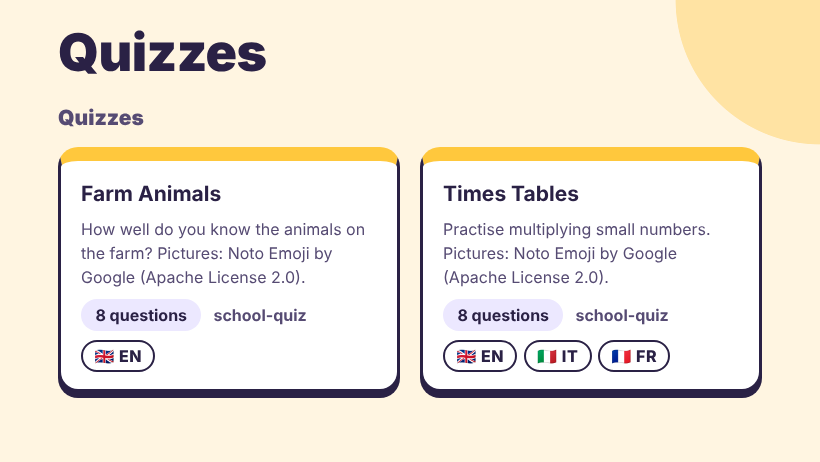
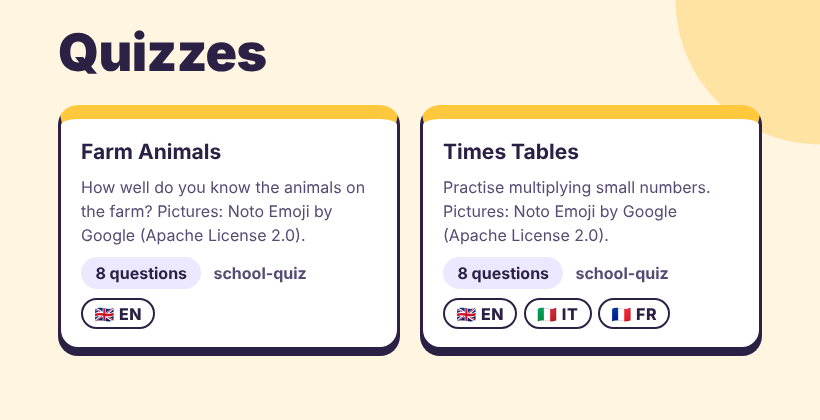
Phase 5 (WIP): code of conduct, SECURITY, PR/issue templates, docs for Pages and Claude review, single-section index headings
Claude-Session: https://claude.ai/code/session_015UJSALycaHgZxBARcTmSe2

Changed region(s): [[0.061, 0.1857, 1.0, 0.8667], [0.061, 0.0619, 0.3354, 0.1857], [0.8232, 0.1238, 0.8537, 0.1857]]

diff --git a/src/quizgen/templates/index.html b/src/quizgen/templates/index.html
@@ -17,13 +17,16 @@
 {% if author %}<p class="meta">{% if author.href %}<a href="{{ author.href }}" rel="noopener noreferrer"{% if author.external %} target="_blank"{% endif %}>{{ author.text }}</a>{% else %}{{ author.text }}{% endif %}</p>{% endif %}
 </header>
 <main class="index-main">
+{# Section headings only when both sections exist; otherwise cards are the h2s, so levels never skip or repeat the h1. #}
+{% set both = collections and quizzes %}
+{% set lvl = 3 if both else 2 %}
 {% if collections %}
-<section aria-labelledby="collections-h">
-<h2 id="collections-h" class="section-title">{{ collections_heading }}</h2>
+<section{% if both %} aria-labelledby="collections-h"{% endif %}>
+{% if both %}<h2 id="collections-h" class="section-title">{{ collections_heading }}</h2>{% endif %}
 <ul class="cards">
 {% for c in collections %}
 <li class="card card--collection">
-<h3 class="card-title"><a class="card-link" href="{{ c.href }}"><span class="folder" aria-hidden="true">&#128193;</span> {{ c.title }}</a></h3>
+<h{{ lvl }} class="card-title"><a class="card-link" href="{{ c.href }}"><span class="folder" aria-hidden="true">&#128193;</span> {{ c.title }}</a></h{{ lvl }}>
 {% if c.description %}<p class="card-desc">{{ c.description }}</p>{% endif %}
 <p class="card-meta"><span class="chip">{{ c.count_text }}</span>{% if c.author_name %} <span class="by">{{ c.author_name }}</span>{% endif %}</p>
 </li>
@@ -32,12 +35,12 @@
 </section>
 {% endif %}
 {% if quizzes %}
-<section aria-labelledby="quizzes-h">
-<h2 id="quizzes-h" class="section-title">{{ quizzes_heading }}</h2>
+<section{% if both %} aria-labelledby="quizzes-h"{% endif %}>
+{% if both %}<h2 id="quizzes-h" class="section-title">{{ quizzes_heading }}</h2>{% endif %}
 <ul class="cards">
 {% for q in quizzes %}
 <li class="card card--quiz">
-<h3 class="card-title" lang="{{ q.lang }}"><a class="card-link" href="{{ q.href }}">{{ q.title }}</a></h3>
+<h{{ lvl }} class="card-title" lang="{{ q.lang }}"><a class="card-link" href="{{ q.href }}">{{ q.title }}</a></h{{ lvl }}>
 {% if q.description %}<p class="card-desc" lang="{{ q.lang }}">{{ q.description }}</p>{% endif %}
 <p class="card-meta"><span class="chip">{{ q.count_text }}</span>{% if q.author_name %} <span class="by">{{ q.author_name }}</span>{% endif %}</p>
 {% if q.languages %}<ul class="langs" aria-label="{{ languages_label }}">

diff --git a/tests/test_build_site.py b/tests/test_build_site.py
@@ -480,3 +480,42 @@ def test_structure_hint_in_site_mode(tmp_path, capsys):
     put(tmp_path / "in" / "bad.json", {"title": "T", "questions": [{"text": "Q", "options": []}]})
     assert main(["build", str(tmp_path / "in"), "-o", str(tmp_path / "out")]) == 1
     assert "Fix these first" in capsys.readouterr().out
+
+
+def heading_levels(page: Path) -> list[str]:
+    return re.findall(r"<h([1-6])[ >]", read(page))
+
+
+def test_index_headings_with_collections_and_quizzes(tree, tmp_path):
+    out = tmp_path / "out"
+    build_site(tree, out)
+    assert heading_levels(out / "index.html") == ["1", "2", "3", "3", "2", "3"]
+
+
+def test_index_headings_quizzes_only_have_no_repeated_section_title(tmp_path):
+    src = tmp_path / "in"
+    put(src / "a.json", quiz("A"))
+    put(src / "b.json", quiz("B"))
+    out = tmp_path / "out"
+    build_site(src, out)
+    page = read(out / "index.html")
+    assert heading_levels(out / "index.html") == ["1", "2", "2"]
+    assert "section-title" not in page and "aria-labelledby" not in page
+    assert page.count("Quizzes</h") == 1
+
+
+def test_index_headings_collections_only_and_collection_page(tmp_path):
+    src = tmp_path / "in"
+    put(src / "school" / "maths.json", quiz("Maths"))
+    out = tmp_path / "out"
+    build_site(src, out)
+    assert heading_levels(out / "index.html") == ["1", "2"]
+    assert heading_levels(out / "school" / "index.html") == ["1", "2"]
+
+
+def test_index_headings_empty(tmp_path):
+    src = tmp_path / "in"
+    src.mkdir()
+    out = tmp_path / "out"
+    build_site(src, out)
+    assert heading_levels(out / "index.html") == ["1"]

diff --git a/README.md b/README.md
@@ -10,9 +10,9 @@
 |---|---|
 | ![Times Tables in Italian with the EN, IT and FR language switcher](docs/screenshots/languages.png) | ![Quiz index with a card for each quiz](docs/screenshots/index.png) |
 
-Live demo: coming soon.
+**Live demo:** <https://rcocetta.github.io/school-quiz/> (try the [quizzes](https://rcocetta.github.io/school-quiz/quizzes/) or read the [guide](https://rcocetta.github.io/school-quiz/guide/)).
 
-**Which path are you?** Teacher or parent: read [Quick start](#quick-start) and [Writing a quiz](#writing-a-quiz), then [Publishing](#publishing-on-github-pages). Developer: jump to [Development](#development) and [CONTRIBUTING.md](CONTRIBUTING.md).
+**Which path are you?** Teacher or parent who does not want to install anything: follow the [step-by-step guide](https://rcocetta.github.io/school-quiz/guide/) (fork the repository, edit your quiz in the browser on GitHub, and your site publishes itself). Comfortable with a terminal: read [Quick start](#quick-start) and [Writing a quiz](#writing-a-quiz), then [Publishing](#publishing-on-github-pages). Developer: jump to [Development](#development) and [CONTRIBUTING.md](CONTRIBUTING.md).
 
 ## Our promise
 
@@ -98,7 +98,7 @@ quizgen build my-quiz.json
 
 **5. Open `my-quiz.html`** in a browser (double-click it). Done. It is a single file you can email or put on a USB stick.
 
-Prefer not to install anything? A fork-and-edit path for teachers (edit in the browser on GitHub, no install) is coming with the project website. See [Publishing on GitHub Pages](#publishing-on-github-pages).
+Prefer not to install anything? Follow the [guide](https://rcocetta.github.io/school-quiz/guide/): fork this repository, edit your quiz in the browser on GitHub, and the site publishes itself. See also [Publishing on GitHub Pages](#publishing-on-github-pages).
 
 ## Installation
 
@@ -719,7 +719,13 @@ Generated pages load no fonts, scripts or analytics from other sites, and make n
 
 ## Publishing on GitHub Pages
 
-The generated site is plain static files, so any static host works. A fork-and-edit path for non-programmers (edit JSON in GitHub's web editor and let a workflow publish it) is coming with the project website; this section covers what works today.
+The generated site is plain static files, so any static host works.
+
+### Easiest: fork this repository (no install)
+
+If you only want your own quiz site, follow the [guide](https://rcocetta.github.io/school-quiz/guide/). In short: fork the repository, edit or add quiz files in `quizzes/` using GitHub's web editor, and in **Settings > Pages** set **Source** to **GitHub Actions**. The repository's own [`.github/workflows/pages.yml`](.github/workflows/pages.yml) then validates and builds `quizzes/` and publishes the result on every push to `main`. By default it also publishes the project website (landing page and guide) next to your quizzes. To publish only your quizzes, at the root of your site, set the repository variable `PROJECT_PAGES` to `false` (**Settings > Secrets and variables > Actions > Variables**).
+
+The rest of this section is for your own repository that is not a fork of this one.
 
 ### Manual: build and publish the folder
 
@@ -736,7 +742,7 @@ To test locally before publishing: `python3 -m http.server --bind 127.0.0.1 -d d
 
 ### Automatic: a GitHub Actions workflow in your own repository
 
-Put your quizzes in a `quizzes/` folder in a GitHub repository, then save the file below as `.github/workflows/pages.yml`. In **Settings > Pages**, set **Source** to **GitHub Actions**. Every push to `main` then validates, builds and deploys your site.
+Put your quizzes in a `quizzes/` folder in your own GitHub repository, then save the file below as `.github/workflows/pages.yml`. In **Settings > Pages**, set **Source** to **GitHub Actions**. Every push to `main` then validates, builds and deploys your site.
 
 ```yaml
 name: Deploy quizzes to GitHub Pages
@@ -864,13 +870,14 @@ python3 -m venv .venv && .venv/bin/pip install -e '.[dev]'
 .venv/bin/pytest -q
 ```
 
-Optional browser smoke tests (`tests/browser/`, Playwright and Chromium, installed with `pip install -e '.[dev,browser]'`) and `scripts/screenshots.py` (regenerates `docs/screenshots/`) are covered there too. CI is `.github/workflows/ci.yml`.
+Optional browser smoke tests (`tests/browser/`, Playwright and Chromium, installed with `pip install -e '.[dev,browser]'`) and `scripts/screenshots.py` (regenerates `docs/screenshots/`) are covered there too. CI is `.github/workflows/ci.yml`; the site is deployed by `.github/workflows/pages.yml`.
 
 ### Project layout
 
 ```text
 pyproject.toml            package metadata, dependencies, entry point
 README.md  CONTRIBUTING.md  CHANGELOG.md  LICENSE
+CODE_OF_CONDUCT.md  SECURITY.md   community files (Contributor Covenant 2.1, how to report problems privately)
 PLAN.md  CLAUDE.md        project plan/decisions and instructions for AI agents
 src/quizgen/
   cli.py                  argparse; dispatches to validate/build
@@ -884,10 +891,13 @@ src/quizgen/
   templates/              quiz.html, index.html (Jinja2)
   static/                 quiz.js, quiz.css (vanilla, no dependencies)
 examples/                 example quizzes and images
+quizzes/                  the shared quiz library (published on the project site)
+website/                  project landing page and guide (static HTML)
 tests/                    pytest suite, fixtures/ with one bad file per rule, browser/ smoke tests
 scripts/                  maintenance scripts (screenshots)
 docs/screenshots/         pictures used in this README
-.github/workflows/        CI
+.github/workflows/        ci.yml (tests), pages.yml (deploy site), claude-review.yml (maintainer-triggered review)
+.github/                  PULL_REQUEST_TEMPLATE.md, ISSUE_TEMPLATE/ (issue forms), dependabot.yml
 .claude/agents/           helper agents used while developing the project
 ```
 
@@ -917,7 +927,7 @@ The built-in text lives in [`src/quizgen/ui_strings.json`](src/quizgen/ui_string
 
 ## Contributing, licence and credits
 
-Contributions of code, quizzes and collections are welcome. Read [CONTRIBUTING.md](CONTRIBUTING.md) first. See [CHANGELOG.md](CHANGELOG.md) for what changed.
+Contributions of code, quizzes and collections are welcome. Read [CONTRIBUTING.md](CONTRIBUTING.md) first. Everyone taking part agrees to the [Code of Conduct](CODE_OF_CONDUCT.md); to report a security problem privately, see [SECURITY.md](SECURITY.md). See [CHANGELOG.md](CHANGELOG.md) for what changed.
 
 **Licence:** GPL-3.0-or-later. See [LICENSE](LICENSE). In plain words: you may use, copy, change and share this software, including for schools; if you share a modified version, you must share its source under the same licence.
 

diff --git a/CODE_OF_CONDUCT.md b/CODE_OF_CONDUCT.md
@@ -1,0 +1,83 @@
+# Contributor Covenant Code of Conduct
+
+## Our Pledge
+
+We as members, contributors, and leaders pledge to make participation in our community a harassment-free experience for everyone, regardless of age, body size, visible or invisible disability, ethnicity, sex characteristics, gender identity and expression, level of experience, education, socio-economic status, nationality, personal appearance, race, caste, color, religion, or sexual identity and orientation.
+
+We pledge to act and interact in ways that contribute to an open, welcoming, diverse, inclusive, and healthy community.
+
+## Our Standards
+
+Examples of behavior that contributes to a positive environment for our community include:
+
+* Demonstrating empathy and kindness toward other people
+* Being respectful of differing opinions, viewpoints, and experiences
+* Giving and gracefully accepting constructive feedback
+* Accepting responsibility and apologizing to those affected by our mistakes, and learning from the experience
+* Focusing on what is best not just for us as individuals, but for the overall community
+
+Examples of unacceptable behavior include:
+
+* The use of sexualized language or imagery, and sexual attention or advances of any kind
+* Trolling, insulting or derogatory comments, and personal or political attacks
+* Public or private harassment
+* Publishing others' private information, such as a physical or email address, without their explicit permission
+* Other conduct which could reasonably be considered inappropriate in a professional setting
+
+## Enforcement Responsibilities
+
+Community leaders are responsible for clarifying and enforcing our standards of acceptable behavior and will take appropriate and fair corrective action in response to any behavior that they deem inappropriate, threatening, offensive, or harmful.
+
+Community leaders have the right and responsibility to remove, edit, or reject comments, commits, code, wiki edits, issues, and other contributions that are not aligned to this Code of Conduct, and will communicate reasons for moderation decisions when appropriate.
+
+## Scope
+
+This Code of Conduct applies within all community spaces, and also applies when an individual is officially representing the community in public spaces. Examples of representing our community include using an official e-mail address, posting via an official social media account, or acting as an appointed representative at an online or offline event.
+
+## Enforcement
+
+Instances of abusive, harassing, or otherwise unacceptable behavior may be reported to the community leaders responsible for enforcement by contacting the maintainer privately through GitHub: open the maintainer's profile at <https://github.com/rcocetta> and use the contact options there, or, for anything that is also a security problem, use the **Report a vulnerability** button on this repository's **Security** tab. Please do not post conduct reports in public issues or pull requests. All complaints will be reviewed and investigated promptly and fairly.
+
+All community leaders are obligated to respect the privacy and security of the reporter of any incident.
+
+## Enforcement Guidelines
+
+Community leaders will follow these Community Impact Guidelines in determining the consequences for any action they deem in violation of this Code of Conduct:
+
+### 1. Correction
+
+**Community Impact**: Use of inappropriate language or other behavior deemed unprofessional or unwelcome in the community.
+
+**Consequence**: A private, written warning from community leaders, providing clarity around the nature of the violation and an explanation of why the behavior was inappropriate. A public apology may be requested.
+
+### 2. Warning
+
+**Community Impact**: A violation through a single incident or series of actions.
+
+**Consequence**: A warning with consequences for continued behavior. No interaction with the people involved, including unsolicited interaction with those enforcing the Code of Conduct, for a specified period of time. This includes avoiding interactions in community spaces as well as external channels like social media. Violating these terms may lead to a temporary or permanent ban.
+
+### 3. Temporary Ban
+
+**Community Impact**: A serious violation of community standards, including sustained inappropriate behavior.
+
+**Consequence**: A temporary ban from any sort of interaction or public communication with the community for a specified period of time. No public or private interaction with the people involved, including unsolicited interaction with those enforcing the Code of Conduct, is allowed during this period. Violating these terms may lead to a permanent ban.
+
+### 4. Permanent Ban
+
+**Community Impact**: Demonstrating a pattern of violation of community standards, including sustained inappropriate behavior, harassment of an individual, or aggression toward or disparagement of classes of individuals.
+
+**Consequence**: A permanent ban from any sort of public interaction within the community.
+
+## Attribution
+
+This Code of Conduct is adapted from the [Contributor Covenant][homepage], version 2.1, available at [https://www.contributor-covenant.org/version/2/1/code_of_conduct.html][v2.1].
+
+Community Impact Guidelines were inspired by [Mozilla's code of conduct enforcement ladder][Mozilla CoC].
+
+For answers to common questions about this code of conduct, see the FAQ at [https://www.contributor-covenant.org/faq][FAQ]. Translations are available at [https://www.contributor-covenant.org/translations][translations].
+
+[homepage]: https://www.contributor-covenant.org
+[v2.1]: https://www.contributor-covenant.org/version/2/1/code_of_conduct.html
+[Mozilla CoC]: https://github.com/mozilla/diversity
+[FAQ]: https://www.contributor-covenant.org/faq
+[translations]: https://www.contributor-covenant.org/translations

diff --git a/CONTRIBUTING.md b/CONTRIBUTING.md
@@ -6,6 +6,8 @@ Thank you for helping! school-quiz is built for kids, free forever, and open to 
 - **Quizzes**: add a quiz to the shared library in `quizzes/`.
 - **Collections**: add a whole set of quizzes, for example one teacher's or one school's, as a folder `quizzes/<collection>/` with its own index page.
 
+Everyone taking part follows our [Code of Conduct](CODE_OF_CONDUCT.md). To report a security problem, see [SECURITY.md](SECURITY.md).
+
 You do not need to be a programmer to contribute a quiz. If you are not comfortable with Git, open an issue and attach your quiz file; we can help turn it into a pull request.
 
 ## Development setup
@@ -41,7 +43,7 @@ Without Playwright these tests are skipped. With `QUIZGEN_BROWSER_TESTS=1` set, 
 
 **Screenshots** in `docs/screenshots/` are generated, not hand-made. Regenerate them with `.venv/bin/python scripts/screenshots.py` if you change how the pages look.
 
-**Checking quizzes:** `.venv/bin/quizgen validate examples/` (and `quizzes/` once that folder exists).
+**Checking quizzes:** `.venv/bin/quizgen validate examples/ quizzes/`.
 
 ## Continuous integration
 
@@ -78,9 +80,9 @@ Settled decisions in `PLAN.md` (marked with a tick) should not be reopened insid
 
 ## Contributing a quiz or collection
 
-Put the quiz in `quizzes/` (or, for a collection, in `quizzes/<collection>/`, optionally with a `collection.json`; see the [README](README.md#collections-and-folder-layout)). Images go in an `images/` folder next to the quiz.
+Put the quiz in `quizzes/`. For a collection, make a folder `quizzes/<collection>/` with your quizzes in it, optionally with a `collection.json` for its title, description and author; see the [README](README.md#collections-and-folder-layout)). Images go in an `images/` folder next to the quiz.
 
-Checklist (a pull request template that repeats it is coming soon):
+The [pull request template](.github/PULL_REQUEST_TEMPLATE.md) repeats this checklist. For each quiz or collection:
 
 - [ ] **Age-appropriate.** Content, wording and pictures suit primary and early-secondary school children.
 - [ ] **Answers double-checked.** Each question has exactly one right answer, and you checked the facts in a reliable source. Add an `explanation` where it helps a child learn.
@@ -95,10 +97,19 @@ Checklist (a pull request template that repeats it is coming soon):
 1. Fork the repository and create a branch from `main` with a short descriptive name.
 2. Make your change, keep it focused, and add or update tests and docs.
 3. Run `.venv/bin/pytest -q` (and the browser tests if you touched the page).
-4. Open a pull request and say what it changes and why. For a quiz or collection, tick the checklist above.
+4. Open a pull request. The template asks whether it is code, a quiz or a collection, what it changes and why, and has a checklist to tick.
 5. CI runs automatically. The maintainer reviews, may ask for changes, and merges when it is ready.
 
-The maintainer may also run an automated Claude review on a pull request (coming soon). It is started manually by the maintainer, never automatically, and its output is advice that a human reads; it does not replace human review. Pull requests from forks never get access to repository secrets.
+Pull requests from forks never get access to repository secrets.
+
+### Maintainer-triggered Claude review
+
+The maintainer can ask for an automated review by [Claude](https://www.anthropic.com/claude) on a pull request. How it works ([`.github/workflows/claude-review.yml`](.github/workflows/claude-review.yml)):
+
+- **Only the repository owner can start it**, by commenting `/claude-review` on the pull request (or by running the workflow manually from the **Actions** tab). Comments from anyone else are ignored.
+- **It never runs automatically**, not when a pull request is opened or updated. Contributors do not need to do anything.
+- **Its output is advice** that a human reads. It does not replace human review and cannot merge or push.
+- It reads the content of the pull request, which anyone can write, so it could be tricked by text planted in a pull request (prompt injection). That is why it only has permission to read the repository and to comment, and no other secrets.
 
 ## Reporting problems
 

diff --git a/CHANGELOG.md b/CHANGELOG.md
@@ -23,4 +23,12 @@ Everything below will be released as 0.1.0, the first version.
 - Safe by default: no external requests, strict Content-Security-Policy on every page, quiz text inserted with `textContent`, safe JSON embedding, nothing written when validation fails, output kept out of the input folder, no overwriting the input.
 - Example quizzes (single-language and multi-language) with pictures from Noto Emoji (Apache-2.0).
 - Documentation: README with a full field reference, validation guide, CLI reference, publishing guide (including a copy-paste GitHub Actions workflow) and FAQ; CONTRIBUTING; this changelog.
+- Project website at <https://rcocetta.github.io/school-quiz/>: landing page, step-by-step guide for teachers (fork, edit in the browser, publish), and the shared quiz library in `quizzes/`.
+- `.github/workflows/pages.yml` builds `quizzes/` and the website and deploys them to GitHub Pages; forks can set the repository variable `PROJECT_PAGES=false` to publish only their quizzes at the root of their site.
+- `.github/workflows/claude-review.yml`: Claude review of a pull request, started only by the repository owner (comment `/claude-review`) with read and comment permissions only.
+- Community files: Code of Conduct (Contributor Covenant 2.1), security policy (private vulnerability reporting), pull request template with quiz and collection checklist, issue forms for bugs, feature requests and quiz ideas.
 - Contributor tooling: browser smoke tests with Playwright (optional `browser` extra), a script that regenerates the README screenshots, and a CI workflow that runs the tests and validates the examples and quizzes.
+
+### Fixed
+
+- Index pages no longer repeat the page title as a section heading when they have only one kind of card (only quizzes, or only collections); cards are then second-level headings, so screen readers hear each heading once and levels never skip.

diff --git a/SECURITY.md b/SECURITY.md
@@ -1,0 +1,19 @@
+# Security policy
+
+## Reporting a problem
+
+Please report security problems **privately**. Do not open a public issue or pull request.
+
+On the repository's [Security tab](https://github.com/rcocetta/school-quiz/security), choose **Report a vulnerability** (GitHub private vulnerability reporting). Say what you found, how to reproduce it (a small quiz file helps), and what you think the impact is. We will reply as soon as we can, and credit you in the fix if you like.
+
+## What is in scope
+
+- The pages `quizgen` generates: for example script injection through quiz text, a weakened Content-Security-Policy, or a page that makes requests to other sites.
+- The `quizgen` command: for example reading or writing files outside the chosen folders, or unsafe handling of images and links.
+- The GitHub Actions workflows in `.github/workflows/`: for example leaked secrets or permissions that are too broad.
+
+Not in scope: the content of third-party image hosts that a quiz author links to, and problems in forks or other people's quiz sites.
+
+## Supported versions
+
+Only the latest version on the `main` branch is supported. Fixes go there.

diff --git a/.github/PULL_REQUEST_TEMPLATE.md b/.github/PULL_REQUEST_TEMPLATE.md
@@ -1,0 +1,27 @@
+## What kind of change is this?
+
+- [ ] Code (tool, quiz page, docs, tests)
+- [ ] Quiz (added to `quizzes/`)
+- [ ] Collection (a new `quizzes/<collection>/` folder)
+
+## What and why
+
+<!-- Say what this changes and why. -->
+
+## Quiz or collection checklist
+
+<!-- Skip this section for code-only changes. -->
+
+- [ ] Age-appropriate content, wording and pictures.
+- [ ] Correct answers double-checked in a reliable source.
+- [ ] Images are mine or openly licensed. Source and licence: <!-- name them here -->
+- [ ] No personal data about children (names, photos, contact details).
+- [ ] `quizgen validate quizzes/` passes (locally or in CI).
+- [ ] I am happy for this to be shared under the project's licence (GPL-3.0-or-later).
+
+## Code checklist
+
+<!-- Skip this section for quiz-only changes. -->
+
+- [ ] Tests added or updated, and `.venv/bin/pytest -q` passes.
+- [ ] README, CHANGELOG and PLAN.md updated if behaviour, schema or the CLI changed.
